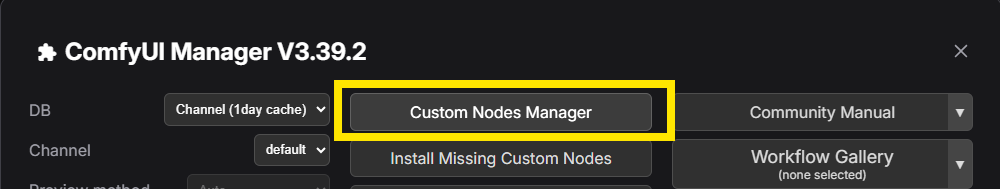
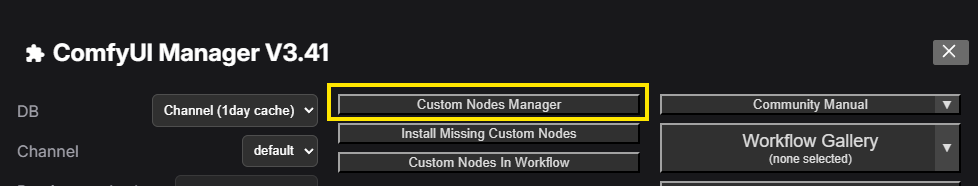
test(browser): add download-all harness and docs tweaks

diff --git a/docs/RUNNING_APPS.md b/docs/RUNNING_APPS.md
@@ -12,10 +12,10 @@ After you have installed all models needed for an app, open it by clicking on it
 Next to the app's **name** sits an **(i)** that opens the [information panel](MODELS.md), where you can install or uninstall the required models for the app.
 
 Just below are the app's **modes**: **HD** is what the app runs as by default and
-**Custom** always stays (it exposes the parameters as they are). Any other button comes
-from the app's architecture — **Turbo** only appears where that architecture defines it,
-and named variants replace the HD / Turbo pair completely. A mode whose models are not
-installed is greyed out; hover it to see which file it is missing.
+**Custom** always stays (it exposes the parameters as they are). Any other button is one the
+app itself offers — **Turbo** only appears where the app has a Turbo mode, and named variants
+replace the HD / Turbo pair completely. A mode whose models are not installed is greyed out;
+hover it to see which file it is missing.
 
 <img src="../web/core/media/git/running_apps/variants.png">
 
@@ -52,7 +52,7 @@ By default, the seed is random and it changes after you run the image/video gene
 
 ### Steps ###
 
-You can define here the number of steps for the KSampler (steps for the diffusion/checkpoint model) to generate the image. In general, more steps, more detailed images.
+You can define here the number of steps the model uses to generate the image. In general, more steps, more detailed images.
 
 For video generation, steps are generally under **Advanced**
 
@@ -72,7 +72,7 @@ Below the lora model, you have the strength slider, where you can set the streng
 To add another LoRA, click **Add Lora** again; use the **✕** in the corner of a block to remove it.
 
 > [!NOTE]
-> As for the models, the Wan 2.2 app has 2 lora buttons that can be used for the Lightxv2 models. The first one corresponds to the first model (high), and the second for the second model (low).
+> As for the models, the Wan 2.2 app has 2 LoRA buttons, for its two models (high and low noise). The first one belongs to the first model (high), the second to the second (low).
 
 ### Image (Video) Loader
 For Image-to-image or image-to-video apps, you will need to use a reference image, which can be loaded into the 'input' folder of ComfyUI:
@@ -83,7 +83,7 @@ You can add an image by:
 - Drag and drop an image over the image space
 - **Click** the image space (or the 'Image Loader' title) to open the picker and choose a file from ComfyUI's `input` folder
 - Drag a result from the **Recent** panel or the File Manager onto it
-- **Upload** — the button inside the picker adds a file from your computer to `input` first
+- **Upload** — the button inside the picker adds a file from your computer into ComfyUI's input folder.
 
 The picker only lists what that input can actually take: an image input is offered the pictures in
 `input`, a video input the videos. The empty space is a button too, so it can be reached with the
@@ -101,7 +101,11 @@ The Advanced controls are hidden behind a **Show Advanced** fold at the bottom o
 
 The available controls will depend on the app you are running, but some common ones are:
 
-- **Model**: if you want to use a different model than the one provided in the variants, you can choose the one you prefer. In a tool whose whole choice *is* the model — the upscalers, the frame-interpolation tools — the models appear as **variant buttons** next to Custom, because a dropdown of four alternatives is a question and a row of buttons is an answer. In an app whose architecture has no variants at all (a pose detector, a depth estimator, a generative upscaler such as SeedVR2) this selector stays visible: the app binds its model there, so hiding it would leave you with a model you could neither see nor change.
+- **Model**: if you want a different model than the one the variants offer, pick it here. In a tool whose
+  only choice *is* the model — the upscalers, the frame-interpolation tools — the models appear as
+  **variant buttons** next to Custom, one per model, instead of a dropdown to dig through. And where an
+  app has no modes at all (a pose detector, a depth estimator, a generative upscaler such as SeedVR2)
+  this selector always stays visible, so you can see and change the model the app runs on.
 - **CLIP and VAE**: if you want to use different text encoder or VAE models, you can select them here.
 - **Sampler and scheduler**: you can change the sampler and scheduler for the diffusion process here.
 - **Number of steps and CFG**: in the advanced settings, you can also change the number of steps for the diffusion process and the Classifier-Free Guidance (CFG) value. In general, the default values are good, but if you are going to use **distilled or lightning LoRAs**, you will need to change them, normally by **reducing the steps to 4-8** (depending on the LoRA) and the **CFG to 1**.
@@ -132,7 +136,9 @@ The images or videos can be seen here and can also be downloaded by right-clicki
 
 On the right, there is the 'Recent' panel, which shows the images that have been generated in the current session. You can navigate and open them to compare with the latest generation. The 'Recent' panel will not show generated images from previous sessions, so to see them you will need to access the File Manager.
 
-The tiles in that panel are small **previews** rendered by the server, not the full-size file — opening a panel full of large results no longer downloads them at full size. Click a tile to see the result in the centre, or drag it (see below) to use it as another app's input.
+The tiles in that panel are small **previews**, not the full-size file — a panel full of large results
+does not download them at full size. Click a tile to see the result in the centre, or drag it (see
+below) to use it as another app's input.
 
 **Dragging a result into an app.** Take an image (or video) from the Recent panel - or from the File Manager - and drop it on a **Load Image** / **Video** input to use it as that app's input. Hold it over a workspace tab and that app opens after a moment, so the file can go to an app in another tab. The file is copied into ComfyUI's `input/` folder, so the original result stays where it is.
 

diff --git a/docs/MODELS.md b/docs/MODELS.md
@@ -12,7 +12,7 @@ When you already have models installed, **the exact folder does not matter**, be
 
 Extra model locations configured with `--models-directory`, `--base-directory` or `extra_model_paths.yaml` are searched too.
 
-For the model files to be recognized, **they need to have the exact name set in the ComfyUI templates**. If you already have the model but under a **different file name, you can still open the app** and select the file manually under **Advanced Options**.
+For the model files to be recognized, **they need to have the exact name the app expects**. If you already have the model but under a **different file name, you can still open the app** and select the file manually under **Advanced Options**.
 
 ## Model Status
 Every app row in the explorer carries a status dot. Apps can offer several **variants** (for example HD and Turbo), each with its own models, and the dot reports the app as a whole:
@@ -23,7 +23,7 @@ Every app row in the explorer carries a status dot. Apps can offer several **var
 
 A variant needs what it is built on: the models it picks (including its own distillation/lightning LoRA) are required **for that variant**, while models that no variant picks never block anything. Where the app offers several alternatives — a VAE, a sampler, a family of interpolation models — **one of that group** is enough, and a group is a group: an app that needs an interpolation model *and* an upscaler is not complete with only one of the two.
 
-The dot on a **variant card** in the information panel is computed by the same rule as the dot on the app row (`web/saus_browser/js/variantStatus.js`), so the two never disagree — a card is not orange for an alternative it does not need, and an uninstalled *optional* model never colours anything.
+Every card carries its own dot, and it means the same thing as the dot on the app row: <span style="color:green">green</span> when everything that variant needs is installed, <span style="color:orange">orange</span> when some of it is, <span style="color:red">red</span> when none of it is. A missing *optional* model never colours anything, and neither does an alternative the variant does not need.
 
 When an app has several variants, hovering the row shows one line per variant (e.g. `HD ✓`, `Turbo — 2 models missing`); with a single variant it simply lists the missing models.
 To install models, open the information panel: click the **(i)** button on the row.
@@ -52,12 +52,11 @@ click starts every model that variant still needs. Optional models are never dow
 that is already downloading is not started twice, and a variant whose models are all there shows
 **All installed** instead of the button.
 
-An app whose architecture has **no variants** — a single choice, such as one upscaler, one pose detector or
-one interpolation model — shows a single **Base** card listing the files it can use. Any one file of a
-"one of" group is enough, and when the app opens it binds the first *installed* one (falling back to the
-first declared, which is what the app ships with).
+An app with only one model to choose — one upscaler, one pose detector, one interpolation model — shows a
+single **Base** card listing the files that work with it. Any one of them is enough: install the one you
+want and the app runs on it.
 
-Where a tool's whole choice is the model, the architecture offers **one variant per model** instead
+Where a tool's whole choice *is* the model, the app offers **one button per model** instead
 (the upscale apps: ESRGAN x2 / x4, UltraSharp x4, AnimeSharp x4; the frame-interpolation tools: FILM net
 or RIFE 4.26; the SeedVR2 upscalers: 3B or 7B). Pick one from the row of buttons in the app — Custom is
 still there if you want to choose a file yourself. Installing one of those therefore shows the **app row**
@@ -73,8 +72,8 @@ If you want to free up space because you no longer use an app, you can delete it
 
 ## The Model Manager
 
-**Settings → Managers → Model Manager** opens the other half in its own tab: every model the registry
-knows, not just the ones one app needs.
+**Settings → Managers → Model Manager** opens the other half in its own tab: every model SAUS knows
+about, not just the ones one app needs.
 
 - The list is **grouped by model kind** — one boxed section per kind, the way the App Manager files its
   subcategories — and inside each, cards in **flexible columns** as wide as the side panel. Each card is
@@ -84,13 +83,12 @@ knows, not just the ones one app needs.
   background. (The folder a model belongs in is not shown: SAUS finds it by file name anywhere.)
 - Two chip rows filter the list: **All / Installed / Not installed / Unused**, and a chip per **model
   kind** (Diffusion model, VAE, TEXT ENCODER, LORA, …) with its count. **Unused** finds files no app
-  *and* no architecture references any more — architectures are counted for that answer, but the cards
-  themselves only name apps.
+  needs any more.
 - **Install** and **Uninstall** work exactly as they do in the app's **(i)** panel, and share the same
   progress: starting a download in one view shows up in the other, and both write to the same ComfyUI
   model folders.
 
-Uninstalling still only ever touches model weight folders (`custom_nodes` and `datasets` are never
-touched), and it asks before deleting.
+Uninstalling only ever touches model files — never code, and never the folders ComfyUI itself runs
+from — and it asks before deleting.
 
 [Return to User Guide](USER_GUIDE.md#installing-and-uninstalling-models)

diff --git a/docs/SECURITY.md b/docs/SECURITY.md
@@ -1,41 +1,34 @@
 # Security
 
-SAUS is served **by ComfyUI itself**, on ComfyUI's origin (`/saus/**`), so the SAUS
-shell, every app and ComfyUI share one origin. That shapes what SAUS can defend.
+SAUS runs **inside ComfyUI**, on the same address and port as it: that is what shapes what SAUS can
+defend, and it is why the checks below are the ones that matter.
 
 ## Cross-site requests
 
-Every mutating route requires a JSON body (`Content-Type: application/json`), and
-the multipart upload route requires the `X-SAUS-Request` header — both force a CORS
-preflight, which this server never answers. Do **not** start ComfyUI with
-`--enable-cors-header`: answering those preflights would remove that protection
-from SAUS *and* from ComfyUI's own endpoints.
+Everything you do in the SAUS interface — uploads, renames, deletes, downloads — is sent in a way a
+random web page cannot imitate, so a site you happen to have open in another tab cannot act on your
+ComfyUI behind your back. Do **not** start ComfyUI with `--enable-cors-header`: that option removes this
+protection, for SAUS *and* for ComfyUI itself.
 
-## Code inside the ComfyUI origin
+## Custom nodes and extensions
 
-Custom nodes and other extensions run inside the ComfyUI origin, so they can
-already read and call SAUS — there is no boundary to enforce there. Apps are
-trusted content, exactly like a custom node.
+Custom nodes and other extensions you install run inside ComfyUI itself, so they can already read and
+call SAUS — there is no boundary to enforce there. Apps are trusted content, exactly like a custom node.
 
 ## Filesystem access
 
-The file / upload / rename / delete API is confined to ComfyUI's `input`, `output`
-and `models` folders: absolute, drive-letter, UNC and `..` paths are refused before
-anything touches disk, then the path is resolved and checked against those roots.
-The roots themselves are never renamed, deleted or moved — only their contents.
-(`download-file` accepts the absolute paths ComfyUI's executor sends, so there the
-UNC form alone is refused, checked as a *string* before anything resolves it.)
+The File Manager (and everything SAUS does with files: uploading, renaming, deleting, moving) stays
+inside ComfyUI's `input`, `output` and `models` folders. `..`, drive letters and network paths are
+refused before anything touches the disk. Those three folders themselves are never renamed, deleted or
+moved — only what is inside them.
 
 ## Downloads
 
-A model download only lands in a folder ComfyUI uses for models: `custom_nodes`
-and `datasets` are never a destination, because a file written there could be
-imported and run after a restart. A downloaded file name is reduced to a base name
-and refused if it carries a script or native-library extension, exactly as an
-upload is. Downloads only fetch http(s) URLs that resolve to public addresses, that
-check is repeated on every redirect, and an API token is attached only for hosts on
-the allow-list kept in `saus/data/allowed_download_hosts.json`. SAUS never stores
-tokens.
+A model download only ever lands in a folder ComfyUI uses for models — never in a folder ComfyUI loads
+code from, where a file could be imported and run after a restart. A downloaded file name is reduced to
+its base name and refused if it carries a script or native-library extension, exactly as an upload is.
+Downloads only fetch public http(s) addresses, that check is repeated on every redirect, and a login
+token is attached only for hosts on a shipped allow-list of trusted sources. SAUS never stores tokens.
 
 ## Reporting a vulnerability
 
@@ -44,7 +37,3 @@ Please report security issues privately through GitHub's
 rather than in a public issue. Reports are reviewed as time allows; if one is
 accepted, a fix is released and the reporter is credited unless they prefer
 otherwise.
-
-Contributors: the concrete invariants every route must keep — and the checks that
-enforce them — are documented in the developer skill at
-`.clinerules/skills/saus-developer/references/security-invariants.md`.

diff --git a/README.md b/README.md
@@ -85,6 +85,7 @@ If you already have installed [ComfyUI](https://github.com/comfyanonymous/ComfyU
 <img src="web/core/media/git/custom nodes manager.png">
 
 Search for ComfyUI-SAUS and install it.
+<img src="web/core/media/git/saus_search_manager.png">
 
 ## Manual Install - git clone
 
@@ -100,7 +101,7 @@ git clone https://github.com/dsigmabcn/ComfyUI-SAUS.git
 
 ## Automatic Install (scripts)
 
-To simplify installation, we provide scripts for Windows and Linux that install SAUS and the recommended custom nodes automatically.
+To simplify installation, we provide scripts for Windows and Linux that install SAUS automatically.
 
 The SAUS installers consider you already have [ComfyUI and ComfyUI-Manager already installed](docs/ComfyUI_install_instructions.md).
 
@@ -139,15 +140,7 @@ See the [Runpod guide](docs/RUNPOD.md) for the required CUDA version, the port t
 
 # Accessing SAUS 
 
-## 1. Direct Link
-
-To run SAUS, simply navigate to this address in your web browser:
-
-```
-http://127.0.0.1:8188/saus
-```
-
-## 2. in ComfyUI
+## 1. in ComfyUI
 
 <table>
   <tr>
@@ -156,12 +149,21 @@ http://127.0.0.1:8188/saus
   </tr>
 </table>
 
+## 2. Direct Link Browser address
+
+To run SAUS, simply navigate to this address in your web browser:
+
+```
+http://127.0.0.1:8188/saus
+```
+
+
 ## 3. in Runpod
-After a pod with the **ComfyUI latest - SAUS - KN** template has started (the first run installs and updates), SAUS is reachable on port 7771 — it shows up among the pod's HTTP services in the control panel, and clicking it opens SAUS. It is also the `<pod-id>-7771.proxy.runpod.net` URL, which you can bookmark.
+After a pod with the **ComfyUI latest - SAUS - KN** template has started (the first run installs and updates), SAUS is reachable on port 7771 — it shows up among the pod's HTTP services in the control panel, and clicking it opens SAUS. That URL is bookmarkable, so you can come back to the same pod without going through the panel.
 
 <img src="web/core/media/git/port 7771.png">
 
-Alternatively, open ComfyUI and click on the SAUS button as indicated in <a href="#2-in-comfyui">2. in ComfyUI</a>.
+Alternatively, open ComfyUI and click on the SAUS button as indicated in <a href="#1-in-comfyui">2. in ComfyUI</a>.
 
 > [!TIP]
 > **Now what?** The [User Guide](docs/USER_GUIDE.md) shows how to use SAUS — browsing apps, installing the models an app needs, adjusting the settings and running a generation.

diff --git a/docs/USER_GUIDE.md b/docs/USER_GUIDE.md
@@ -23,18 +23,19 @@ Not installed yet? Start with [Installation and Setup](INSTALLATION.md).
 
 ## Accessing the Interface
 
-To run SAUS, simply navigate to this address in your web browser:
+To run SAUS:
+<table>
+  <tr>
+    <td valign="middle"><img src="../web/core/media/git/Access-button-ComfyUI.png" width="61"></td>
+    <td>Clicking the <b>Simple App</b> icon on ComfyUI's left toolbar.</td>
+  </tr>
+</table>
+
+Or navigate to this address in your web browser:
 
 ```
 http://127.0.0.1:8188/saus
 ```
-
-<table>
-  <tr>
-    <td valign="middle"><img src="../web/core/media/git/Access-button-ComfyUI.png" width="61"></td>
-    <td>or by clicking the <b>Simple App</b> icon on ComfyUI's left toolbar.</td>
-  </tr>
-</table>
 
 If you are accessing via [Runpod](RUNPOD.md), open the pod panel and click over the SAUS port (7771)
 
@@ -93,7 +94,7 @@ The tools live at the bottom of the rail.
 ### File Manager
 A simple File Manager to access and perform basic management of the files in your ComfyUI installation.
 - **Folders**: Shortcut access to the 'Input' and 'Output' folders inside ComfyUI.
-- **Upload File**: Upload files to your local machine/ComfyUI installation.
+- **Upload File**: upload files from your computer into ComfyUI's input folder.
 - **Folder Navigation**: Click on folders to navigate into them, and use 'Go Up' to move one level up in the directory structure.
 - **Image Visualization**: Click on an image or video file to open a preview panel and view it. Use the **arrow keys** to walk the files (with the panel open they flip straight through the images), and deleting the shown image moves the panel on to the next one.
 - **File Management**: Use the icons on each file to rename, download, or delete it.

diff --git a/docs/RUNPOD.md b/docs/RUNPOD.md
@@ -16,11 +16,11 @@ Deploy **ComfyUI latest - SAUS - KN**: the latest ComfyUI with ComfyUI-Manager a
 - **Network Disk:** the template requires one. It is where ComfyUI, its `models/` folder and your generated files live between pods (it mounts at `/workspace`).
 
 > [!NOTE]
-> The first start takes a while: the template updates ComfyUI and SAUS and downloads what they need. Later starts are much shorter. Once the log prints `Redirect server running on port 7771`, SAUS is up.
+> The first start takes a while: the template updates ComfyUI and SAUS and downloads what they need. Later starts are much shorter — the pod log tells you when SAUS is ready.
 
 ## Accessing SAUS on a pod
 
-**Open port 7771** — from the pod panel, or from **Connect → HTTP Service** (Runpod shows it as `<pod-id>-7771.proxy.runpod.net`, handy to bookmark). On a pod SAUS answers there and sends you on to ComfyUI with `/saus` appended, so 7771 is the address to remember.
+**Open port 7771** — from the pod panel, or from **Connect → HTTP Service**, where it shows up as the pod's URL (bookmarkable). Clicking it opens SAUS.
 
 You can also open ComfyUI itself (port 8188) and click the **Simple App** flame in the left toolbar. See [Accessing SAUS](ACCESSING.md) for the walk-through.
 

diff --git a/docs/SETTINGS.md b/docs/SETTINGS.md
@@ -17,10 +17,10 @@ follow it.
 
 ## Apps
 
-**Show deprecated apps** — when a newer model supersedes an older one, the older apps are moved to a
-`deprecated` folder inside `web/apps` and left out of the side panel, so the panel only offers what
-is current. Switch this on to list them again: they open and run exactly as before, which is what you
-want for an older workflow or a project already built on them. The setting is remembered per browser.
+**Show deprecated apps** — when a newer model supersedes an older one, the older apps are parked out of
+the way and left out of the side panel, so the panel only offers what is current. Switch this on to list
+them again: they open and run exactly as before, which is what you want for an older workflow or a
+project already built on them. The setting is remembered per browser.
 It also decides whether deprecated apps appear in the **App Manager** below — while it is off they
 are not listed there either, so this switch is what you turn on to manage them.
 

diff --git a/docs/APP_BROWSING.md b/docs/APP_BROWSING.md
@@ -30,7 +30,9 @@ In the bottom part, you can find:
 
 The side panel is divided in a header, where you can search and filter apps and quickly reach your favorite apps, and the tree, which displays the available SAUS apps per sub-category.
 
-The tree lists the apps that are *current*. When a newer model supersedes an older one, the older apps are parked in a `deprecated` folder and left out, so the panel only offers what is up to date — [Settings](SETTINGS.md) has a **Show deprecated apps** switch that brings them back.
+The tree lists the apps that are *current*. When a newer model supersedes an older one, the older apps are
+parked out of the way and left out, so the panel only offers what is up to date — [Settings](SETTINGS.md)
+has a **Show deprecated apps** switch that brings them back.
 
 <img src="../web/core/media/git/app_browsing/sidebar full.png">
 
